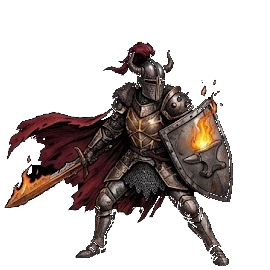
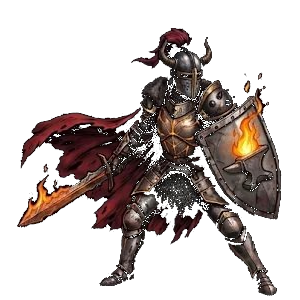
feat(animations): add 6-frame idle animations and transparent sprite sheets for Ash Sculptor and Blood Scribe

diff --git a/lib/features/combat_spatial/spatial_battle_screen.dart b/lib/features/combat_spatial/spatial_battle_screen.dart
@@ -295,6 +295,8 @@ class _SpatialBattleScreenState extends State<SpatialBattleScreen> {
     _battlefieldFocusNode = FocusNode();
     SpriteSheetAnimation.precache('assets/animations/ash_sculptor_attack_sheet.png');
     SpriteSheetAnimation.precache('assets/animations/ash_sculptor_defend_sheet.png');
+    SpriteSheetAnimation.precache('assets/animations/ash_sculptor_idle_sheet.png');
+    SpriteSheetAnimation.precache('assets/animations/blood_scribe_idle_sheet.png');
     SpriteSheetAnimation.precache('assets/animations/valeria_slash_sheet.png');
     SpriteSheetAnimation.precache('assets/animations/iron_footman_idle_sheet.png');
     final players = widget.initialPlayerUnits?.whereType<UnitEntity>().toList();
@@ -5966,6 +5968,44 @@ class _SpatialBattleScreenState extends State<SpatialBattleScreen> {
                                       fit: BoxFit.contain,
                                       fallback: Image.asset(
                                         unit.assetPath,
+                                        fit: BoxFit.contain,
+                                        alignment: Alignment.bottomCenter,
+                                      ),
+                                    )
+                              : (unit.isPlayer &&
+                                      !unit.isDowned &&
+                                      (unit.isAshSculptor ||
+                                          unit.id == 'ash_sculptor' ||
+                                          unit.templateId == 'ash_sculptor' ||
+                                          unit.assetPath.toLowerCase().contains('ash_sculptor')))
+                                  ? SpriteSheetAnimation(
+                                      assetPath: 'assets/animations/ash_sculptor_idle_sheet.png',
+                                      columns: 3,
+                                      rows: 2,
+                                      totalFrames: 6,
+                                      duration: const Duration(milliseconds: 2400),
+                                      loop: true,
+                                      fit: BoxFit.contain,
+                                      fallback: Image.asset(
+                                        'assets/images/ash_sculptor_idle.png',
+                                        fit: BoxFit.contain,
+                                        alignment: Alignment.bottomCenter,
+                                      ),
+                                    )
+                              : (!unit.isDowned &&
+                                      (unit.id.contains('scribe') ||
+                                          unit.templateId.contains('scribe') ||
+                                          unit.assetPath.toLowerCase().contains('scribe')))
+                                  ? SpriteSheetAnimation(
+                                      assetPath: 'assets/animations/blood_scribe_idle_sheet.png',
+                                      columns: 3,
+                                      rows: 2,
+                                      totalFrames: 6,
+                                      duration: Duration(milliseconds: isAttacking ? 1300 : 2500),
+                                      loop: true,
+                                      fit: BoxFit.contain,
+                                      fallback: Image.asset(
+                                        'assets/images/blood_scribe_idle.png',
                                         fit: BoxFit.contain,
                                         alignment: Alignment.bottomCenter,
                                       ),

diff --git a/lib/shared/data/starter_brigades.dart b/lib/shared/data/starter_brigades.dart
@@ -568,7 +568,7 @@ class StarterBrigades {
         lineageAncestors: const [],
         speciesId: 'blood_scribe',
         name: 'Blood Scribe',
-        customAvatarAsset: 'assets/images/Crypt Stalkers/CRY-04-MAG-G1 Blood Scribe.png',
+        customAvatarAsset: 'assets/images/blood_scribe_idle.png',
         generation: 1,
         archetype: Archetype.occultist,
         slot: FormationSlot.front3,
@@ -1589,7 +1589,7 @@ class StarterBrigades {
           speed: 92,
           nativeTraitId: 'plague_hex',
           lineageAncestors: [],
-          customAvatarAsset: 'assets/images/Crypt Stalkers/CRY-04-MAG-G1 Blood Scribe.png',
+          customAvatarAsset: 'assets/images/blood_scribe_idle.png',
         ),
         const UnitEntity(
           id: 'enemy_ch2_initiate',
@@ -1979,7 +1979,7 @@ class StarterBrigades {
         speed: 110,
         nativeTraitId: 'pyre_infusion',
         lineageAncestors: [],
-        customAvatarAsset: 'assets/images/Crypt Stalkers/CRY-04-MAG-G1 Blood Scribe.png',
+        customAvatarAsset: 'assets/images/blood_scribe_idle.png',
       ),
       const UnitEntity(
         id: 'pyre_zealot',
